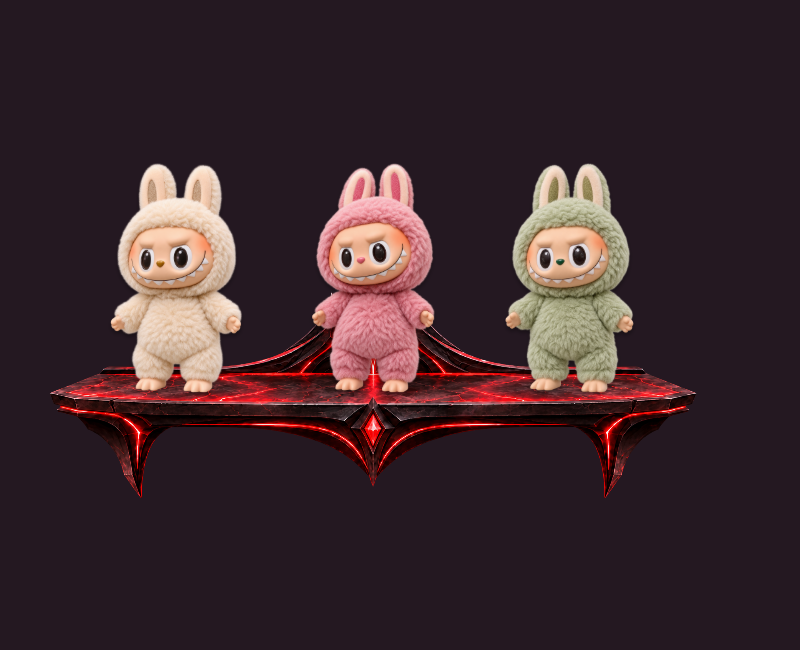
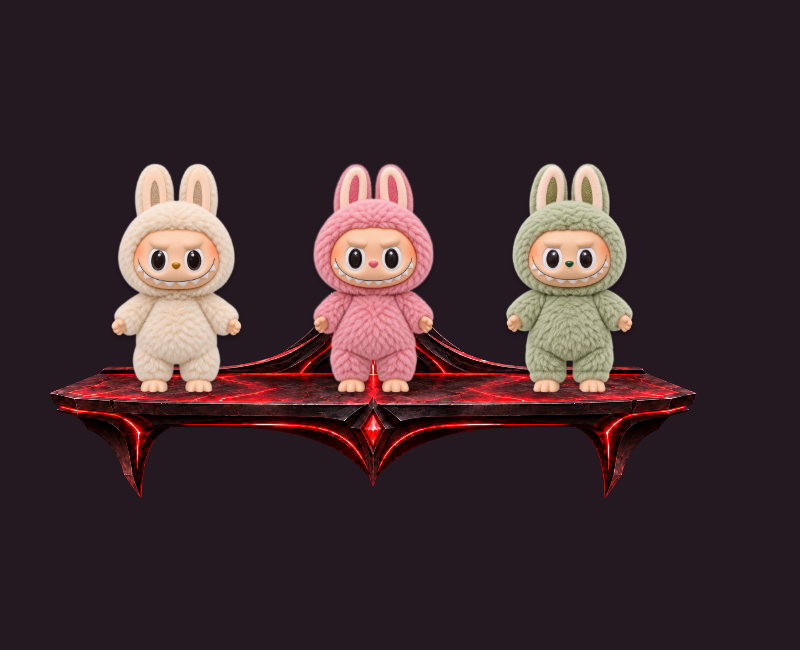
Fix Labubu shelf objects to face forward

Changed region(s): [[0.375, 0.2462, 0.5625, 0.6154], [0.125, 0.2462, 0.3125, 0.6154], [0.625, 0.2462, 0.8125, 0.6154]]

diff --git a/work/verify-labubu.js b/work/verify-labubu.js
@@ -3,7 +3,7 @@ const {chromium}=require('playwright'),sharp=require('sharp'),shelf=require('../
 (async()=>{
  const ids=['labubu-cream','labubu-pink','labubu-sage'];
  assert(shelf.valid({enabled:true,theme:'crimson',slots:ids}));
- for(const id of ids){assert(shelf.items.some(i=>i.id===id&&i.category==='Character Collectibles'));const {data}=await sharp('assets/shelf-'+id+'.png').ensureAlpha().raw().toBuffer({resolveWithObject:true});assert.equal(data[3],0);}
+ for(const id of ids){assert(shelf.items.some(i=>i.id===id&&i.category==='Character Collectibles'));const {data}=await sharp('assets/shelf-'+id+'-front.png').ensureAlpha().raw().toBuffer({resolveWithObject:true});assert.equal(data[3],0);}
  const browser=await chromium.launch({executablePath:'C:/Program Files (x86)/Google/Chrome/Application/chrome.exe',headless:true});
  try{
  const page=await browser.newPage({viewport:{width:800,height:650}});
@@ -15,7 +15,7 @@ const {chromium}=require('playwright'),sharp=require('sharp'),shelf=require('../
  await page.addScriptTag({path:path.resolve('collectible-shelf.js')});
  await page.evaluate(()=>CollectibleShelf.open({selected:{enabled:true,theme:'crimson',slots:['none','none','none']},save:async v=>v,onSave:()=>{}}));
  await page.locator('#shelfCategory').selectOption('Character Collectibles');
- for(const id of ids){await page.locator('#shelfSearch').fill(shelf.items.find(i=>i.id===id).name);const card=page.locator('[data-shelf-item="'+id+'"]');assert.equal(await card.locator('image').getAttribute('href'),'assets/shelf-'+id+'.png');await card.click();}
+ for(const id of ids){await page.locator('#shelfSearch').fill(shelf.items.find(i=>i.id===id).name);const card=page.locator('[data-shelf-item="'+id+'"]');assert.equal(await card.locator('image').getAttribute('href'),'assets/shelf-'+id+'-front.png');await card.click();}
  console.log('Three Labubu items: validation, transparent assets, statue height, shelf baseline, category search and selection passed.');
  }finally{await browser.close();}
 })().catch(e=>{console.error(e);process.exitCode=1});

diff --git a/collectible-shelf.js b/collectible-shelf.js
@@ -104,9 +104,9 @@
   const clean = value => valid(value) ? { enabled: value.enabled, slots: value.slots.map(id => replacements[id] || id), theme:value.theme || 'crimson' } : { enabled: true, slots: ['horse', 'crystal', 'planet'], theme:'crimson' };
   const name = id => items.find(item => item.id === id)?.name || 'Empty spot';
   const standalone = {
-    'labubu-cream': {source:'assets/shelf-labubu-cream.png',width:1024,height:1536,bounds:[86,30,850,1478]},
-    'labubu-pink': {source:'assets/shelf-labubu-pink.png',width:1024,height:1536,bounds:[113,8,811,1512]},
-    'labubu-sage': {source:'assets/shelf-labubu-sage.png',width:1024,height:1536,bounds:[99,28,824,1473]},
+    'labubu-cream': {source:'assets/shelf-labubu-cream-front.png',width:1024,height:1536,bounds:[100,39,826,1456]},
+    'labubu-pink': {source:'assets/shelf-labubu-pink-front.png',width:1024,height:1536,bounds:[120,32,784,1473]},
+    'labubu-sage': {source:'assets/shelf-labubu-sage-front.png',width:1024,height:1536,bounds:[104,31,816,1465]},
     bingo: {source:'assets/shelf-bingo-reference.png',width:1024,height:1536,bounds:[60,34,907,1455]},
     chilli: {source:'assets/shelf-chilli.png',width:1254,height:1254,bounds:[278,6,689,1237]},
     bandit: {source:'assets/shelf-bandit.png',width:1254,height:1254,bounds:[291,9,662,1237]},

diff --git a/index.html b/index.html
@@ -25,7 +25,7 @@
 
   <script src="launchpad-scenes.js?v=20260926-christian-v41"></script>
   <script src="profile-banners.js?v=20260922-v5"></script>
-<script src="collectible-shelf.js?v=20260926-labubu-v39"></script>
+<script src="collectible-shelf.js?v=20260926-labubu-front-v40"></script>
   <script src="app.js?v=20260926-title-loading-v74"></script>
   <script src="colt-assistant.js?v=20260905-lazy-artwork-v2"></script>
   <script src="colt-radio.js?v=20260926-youradio-v25"></script>

diff --git a/work/labubu-front-art.md b/work/labubu-front-art.md
@@ -1,0 +1,14 @@
+# Front-facing Labubu correction
+
+Mode: built-in image generation, transparent-background edits of the corresponding original cream, pink and sage shelf assets. Generated PNGs copied unchanged. Existing item IDs preserved; new filenames and catalog cache version refresh the artwork for existing selections.
+
+Final assets:
+- `assets/shelf-labubu-cream-front.png`
+- `assets/shelf-labubu-pink-front.png`
+- `assets/shelf-labubu-sage-front.png`
+
+Prompt used for each original color asset:
+
+Use case: precise-object-edit. Change ONLY the viewing direction of this Labubu collectible to a perfectly straight-on frontal view. Head and torso square to camera, zero rotation, zero tilt, symmetrical ears and shoulders, both eyes equally sized at same height and looking directly forward, nose exactly on vertical centerline, both cheeks equally visible, smile horizontal and symmetric, both feet pointing straight toward camera on same baseline. NOT three-quarter, NOT side view. Preserve this exact fur color, fuzzy plush texture, peach vinyl face, toothy mischievous grin, ear shape and body proportions. Full body centered with small safe margins. Truly transparent alpha background outside toy, no floor, no shadows, no glow, no labels or accessories. One toy only.
+
+Verification: measured alpha bounds for consistent shelf scale and baseline; browser preview and category selection checked using `work/verify-labubu.js`.
